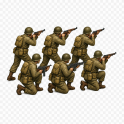
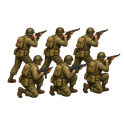
Remove duplicate Infantry_Light_USA variant sprites and update tank unit references from Panzer_IV to Light_Tank: delete Infantry_Light_USA_Northview1.png/Infantry_Light_USA_Sideview1.png/Infantry_Light_USA_Southview1.png, update Infantry_Light_USA_Northview.png/Infantry_Light_USA_Sideview.png/Infan

Changed region(s): [[0.0484, 0.1935, 0.9919, 0.7984]]

diff --git a/src/data/unitSpriteCatalog.ts b/src/data/unitSpriteCatalog.ts
@@ -47,7 +47,7 @@ const COMPOSITE_GROUND_SPRITES: Record<string, CompositeSpriteDef> = {
     Player: [
       unitSprite("Infantry_Light_USA_Southview.png"),   // pos 0 — core rifleman, last survivor
       unitSprite("Infantry_Mortar_USA_Southview.png"),  // pos 1 — mortar
-      unitSprite("Infantry_Light_USA_Southview1.png"),   // pos 2 — rifleman pose-1
+      unitSprite("Infantry_Light_USA_Southview.png"),   // pos 2 — rifleman pose-1 (reuses pose-0 until variants exist)
       unitSprite("Infantry_AT_USA_Southview.png")       // pos 3 — AT specialist, drops first
     ],
     Bot: [
@@ -59,7 +59,7 @@ const COMPOSITE_GROUND_SPRITES: Record<string, CompositeSpriteDef> = {
     Ally: [
       unitSprite("Infantry_Light_USA_Southview.png"),
       unitSprite("Infantry_Mortar_USA_Southview.png"),
-      unitSprite("Infantry_Light_USA_Southview1.png"),
+      unitSprite("Infantry_Light_USA_Southview.png"),
       unitSprite("Infantry_AT_USA_Southview.png")
     ]
   },
@@ -124,7 +124,7 @@ const FACTION_GROUND_SPRITES: Record<string, FactionSpriteMap> = {
   Engineer: {
     Player: unitSprite("Infantry_Engineers_USA_Southview.png"),
     Ally: unitSprite("Infantry_Engineers_USA_Southview.png"),
-    Bot: unitSprite("Infantry_Engineer_German_Southview.png"),
+    Bot: unitSprite("Infantry_Basic_German_Southview.png"),
     fallback: unitSprite("Infantry_Engineers_USA_Southview.png")
   }
 };

diff --git a/src/game/adapters.ts b/src/game/adapters.ts
@@ -57,7 +57,7 @@ export const deploymentTemplates: readonly DeploymentUnitTemplate[] = [
   },
   {
     key: "tank",
-    type: "Panzer_IV",
+    type: "Light_Tank",
     strength: 100,
     ammo: 7,
     fuel: 40,
@@ -244,7 +244,7 @@ export const deploymentTemplates: readonly DeploymentUnitTemplate[] = [
   },
   {
     key: "armoredCompany",
-    type: "Panzer_IV",
+    type: "Light_Tank",
     strength: 100,
     ammo: 7,
     fuel: 40,

diff --git a/src/data/unitCombatProfiles.ts b/src/data/unitCombatProfiles.ts
@@ -19,7 +19,7 @@ const COMBAT_MAPPING: readonly [UnitAllocationKey, UnitTypeKey | null][] = [
   ["infantry", "Infantry_42"],
   ["airborneDetachment", "Paratrooper"],
   ["engineer", "Engineer"],
-  ["tank", "Panzer_IV"],
+  ["tank", "Light_Tank"],
   ["heavyTankCompany", "Heavy_Tank"],
   ["tankDestroyerCompany", "Tank_Destroyer"],
   ["assaultGunBattalion", "Assault_Gun"],

diff --git a/src/data/unitComposition.ts b/src/data/unitComposition.ts
@@ -94,7 +94,7 @@ export const unitComposition: Record<UnitAllocationKey, UnitCompositionProfile> 
     ]
   },
   tank: {
-    combatReference: { unitType: "Panzer_IV" },
+    combatReference: { unitType: "Light_Tank" },
     personnel: 60,
     vehicles: 25,
     equipmentSummary: ["25 medium tanks", "Organic maintenance and recovery detachment"],
